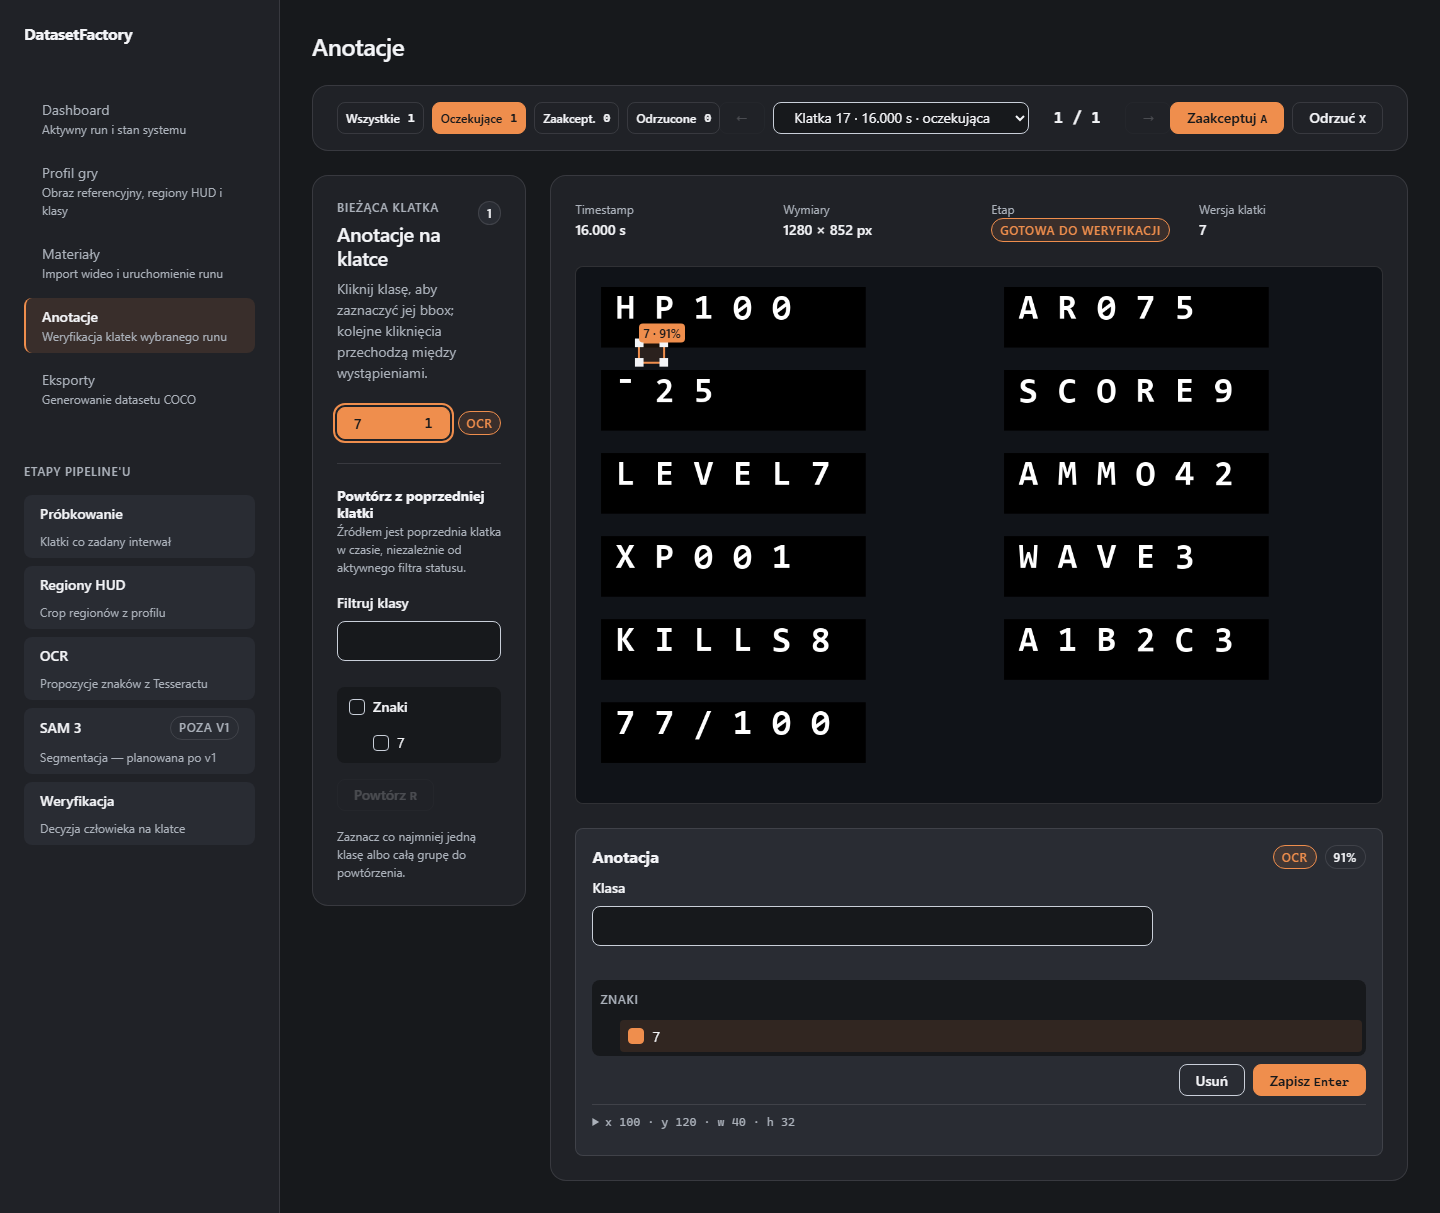
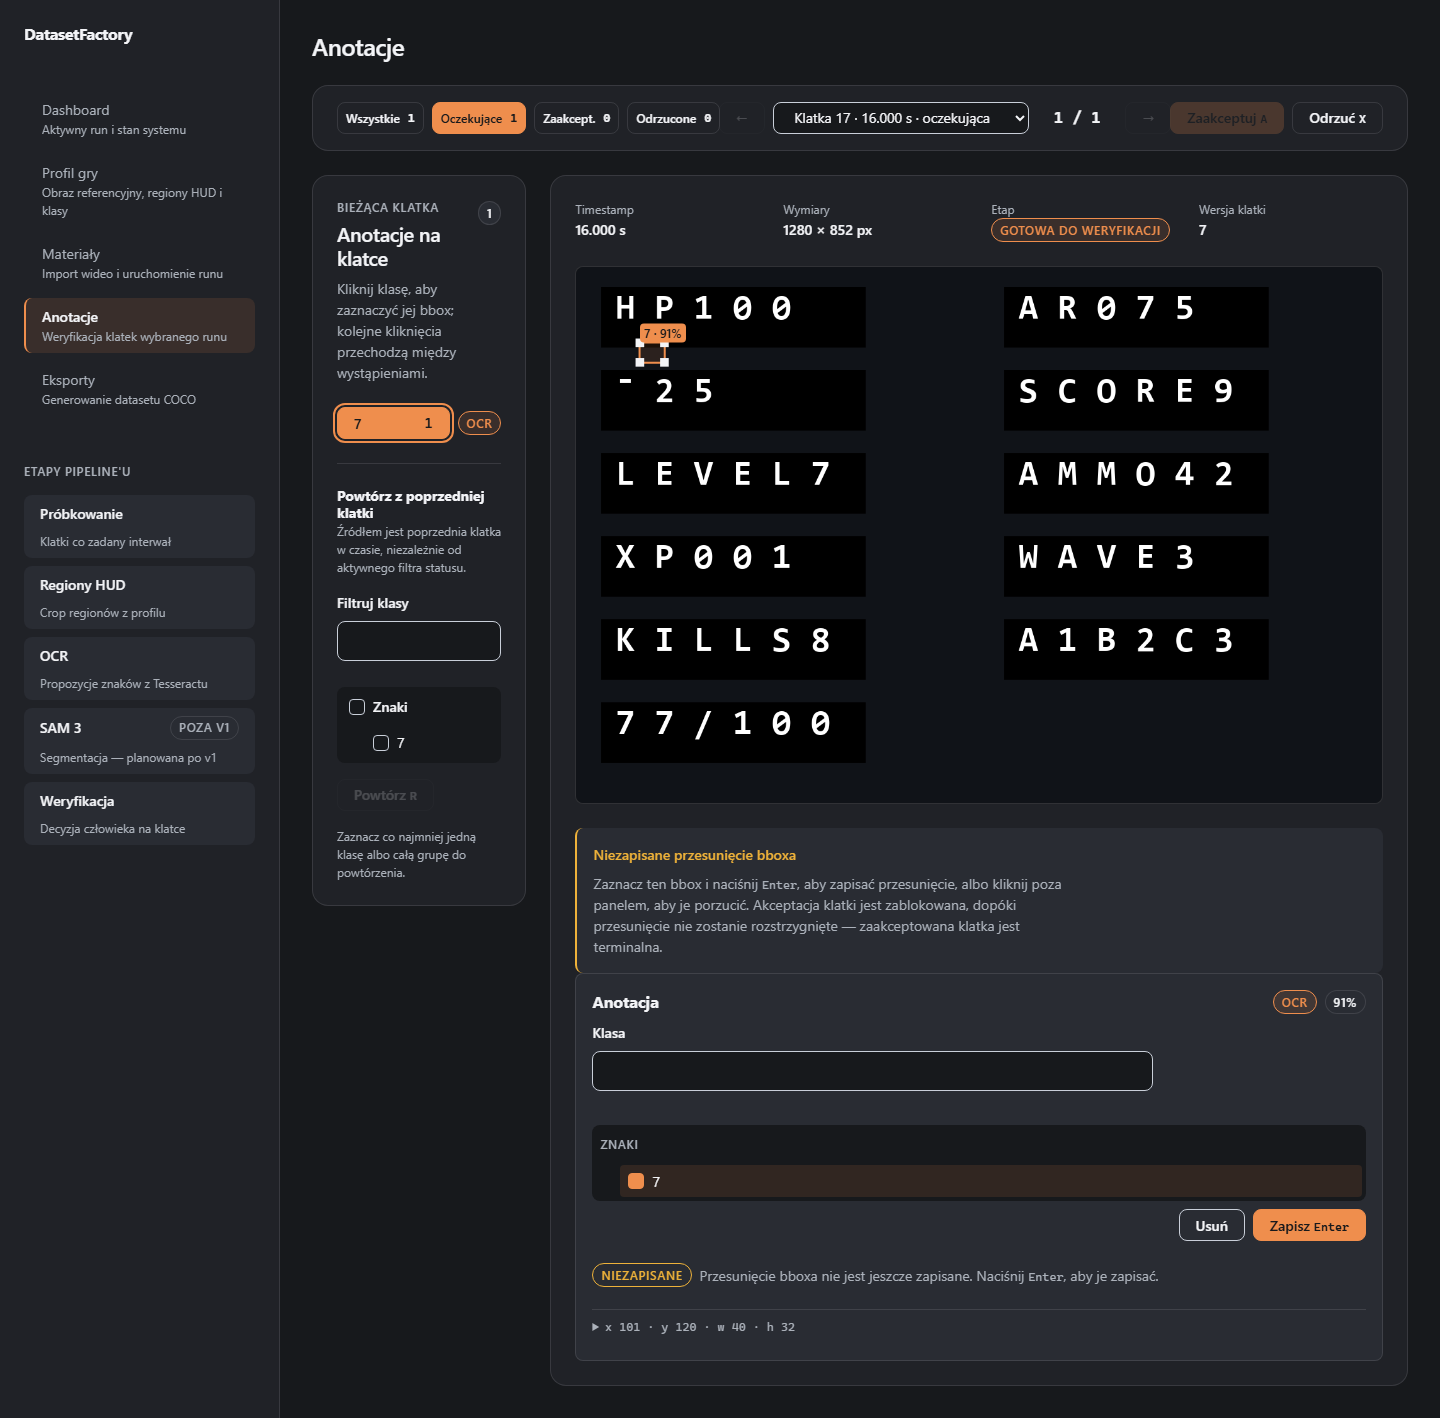
test(fe-009): verify unsaved preview visual state

diff --git a/frontend/e2e/visual-qa.spec.ts b/frontend/e2e/visual-qa.spec.ts
@@ -292,6 +292,29 @@ test("pięć tras i stany loading/empty/error mają uczciwe screenshoty oraz QA 
       await current.keyboard.press("Enter");
       await assertAnnotationPopoverIsDocked(current);
       await current.getByRole("button", { name: /Klasa .* 1 anotacji/ }).focus();
+      const overlay = current.getByRole("listbox", { name: "Bbox anotacji na klatce" });
+      const overlayBeforeNudge = await overlay.boundingBox();
+      expect(overlayBeforeNudge).not.toBeNull();
+      /*
+       * One arrow, deliberately not committed: the screenshot has to show the
+       * unsaved-geometry marker, because that marker is the whole answer to
+       * "where did my nudge go" (FE-009-FIX1). `ArrowRight` sends no request,
+       * and the class button keeps focus for the focus-ring check.
+       */
+      await current.keyboard.press("ArrowRight");
+      const overlayAfterNudge = await overlay.boundingBox();
+      expect(overlayAfterNudge).not.toBeNull();
+      expect(
+        overlayAfterNudge?.y,
+        "the unsaved notice must not move the drawing surface during an edit",
+      ).toBe(overlayBeforeNudge?.y);
+      await expect(
+        current.getByText("Przesunięcie bboxa nie jest jeszcze zapisane.", { exact: false }),
+      ).toBeVisible();
+      await expect(
+        current.getByRole("status", { name: "Niezapisane przesunięcie bboxa" }),
+      ).toBeVisible();
+      await expect(current.getByRole("button", { name: "Zaakceptuj klatkę" })).toBeDisabled();
     },
   );
   await capture(
